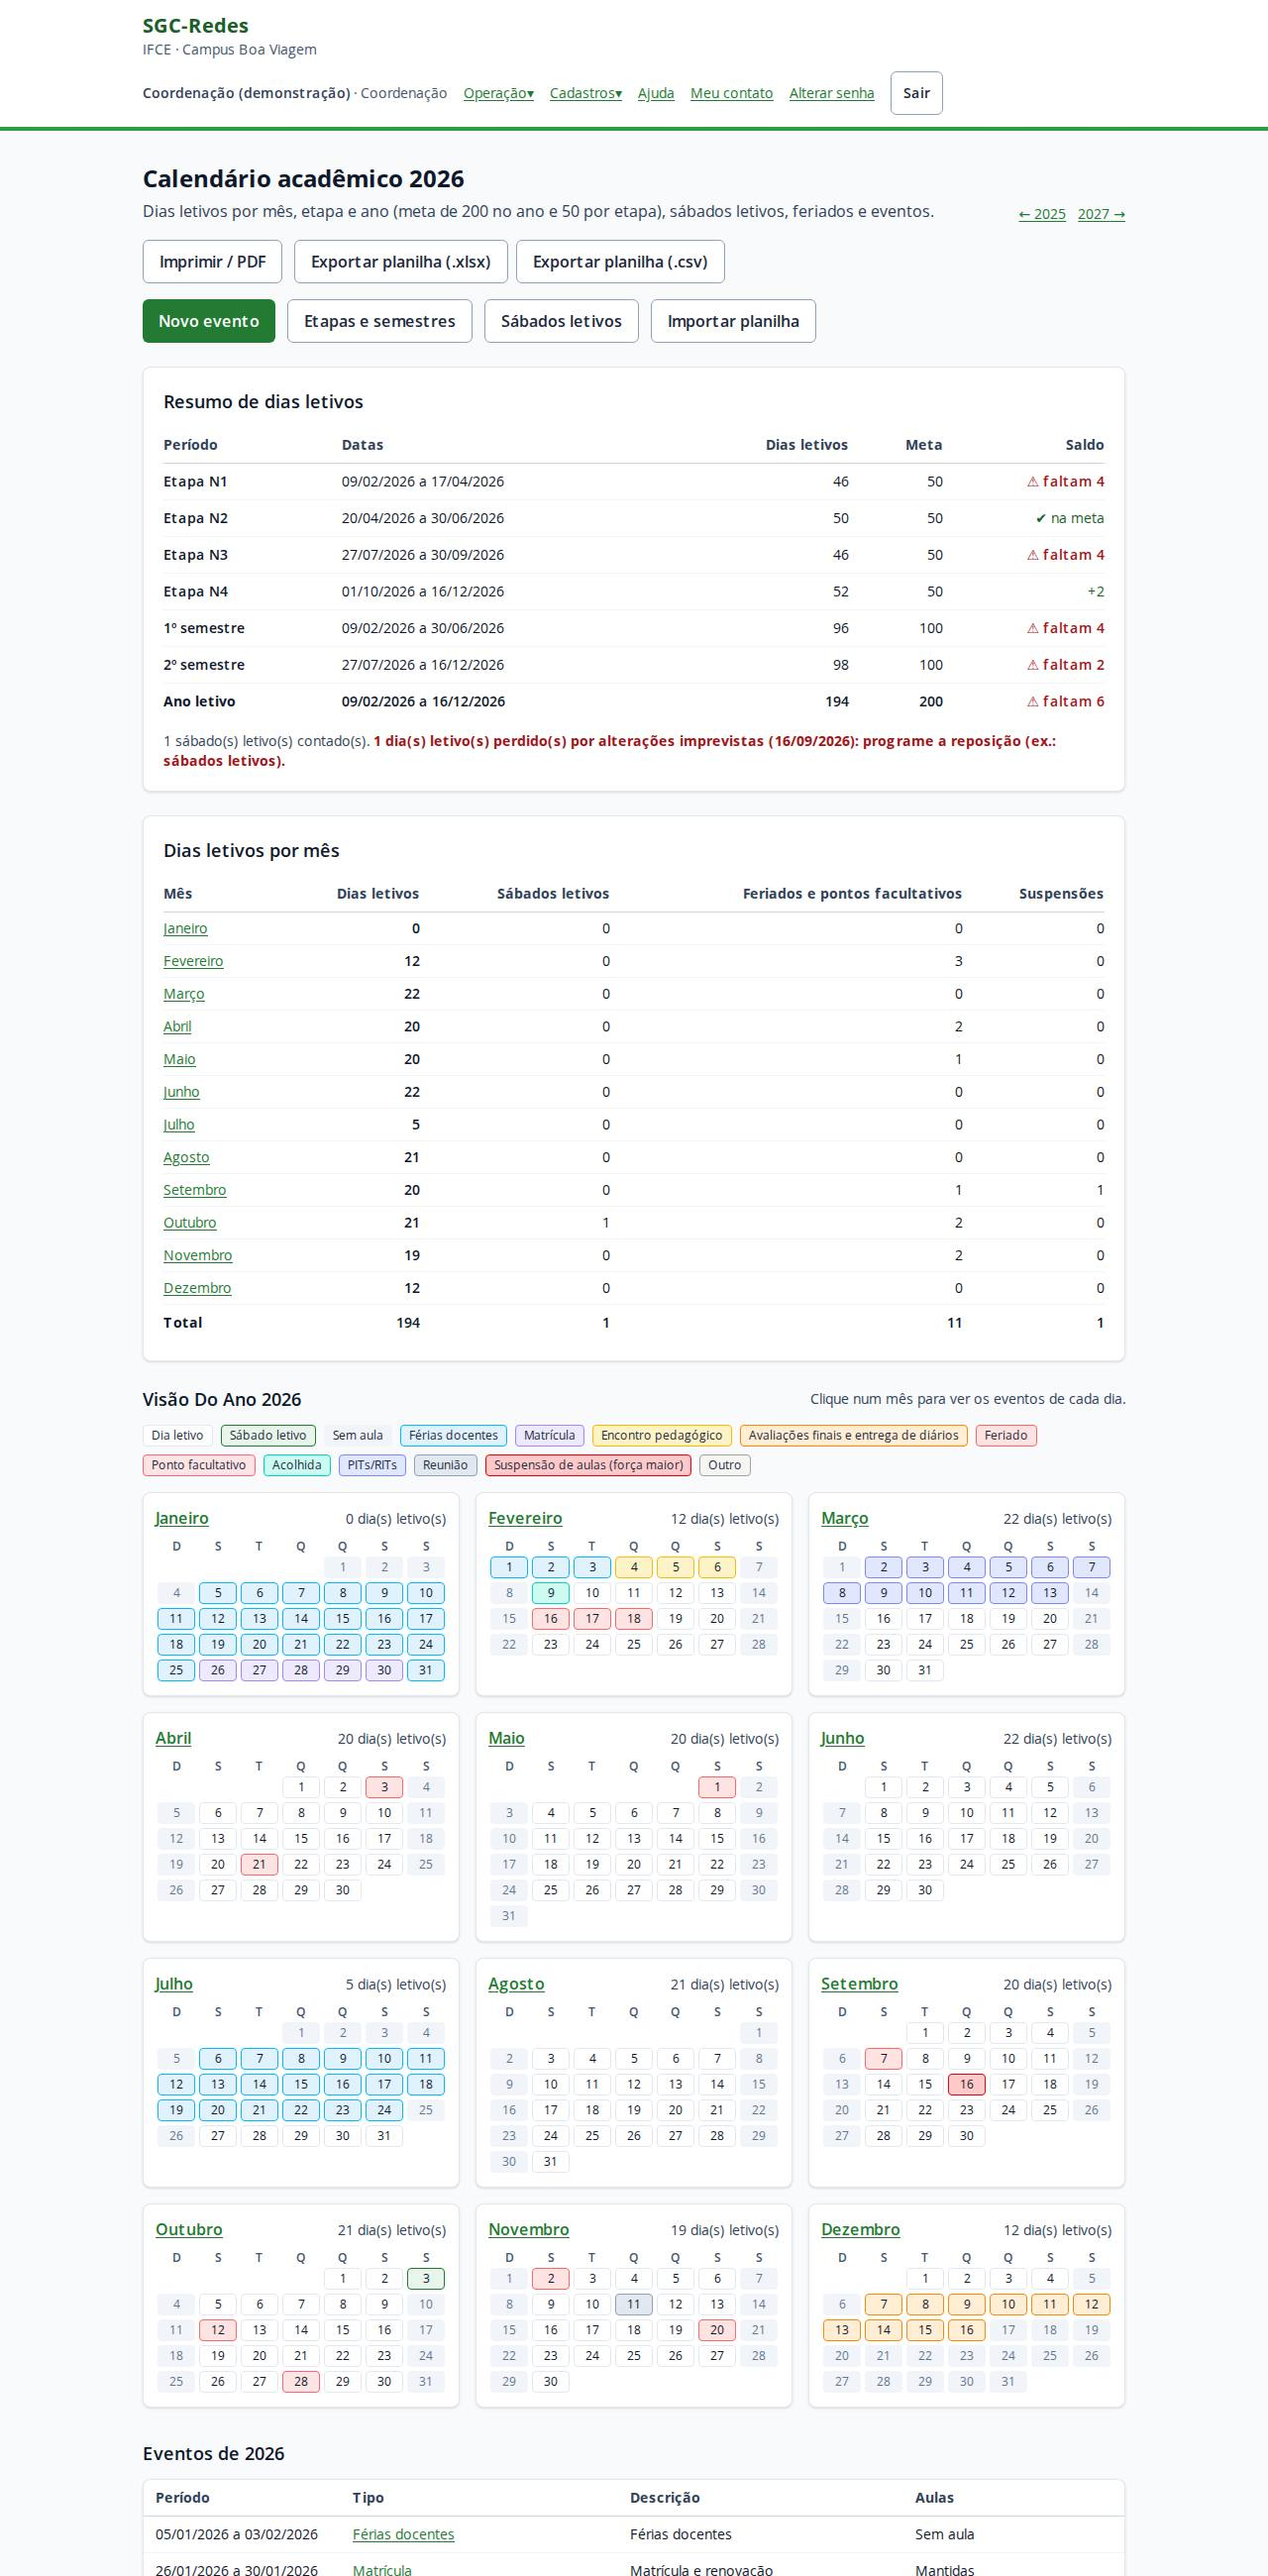
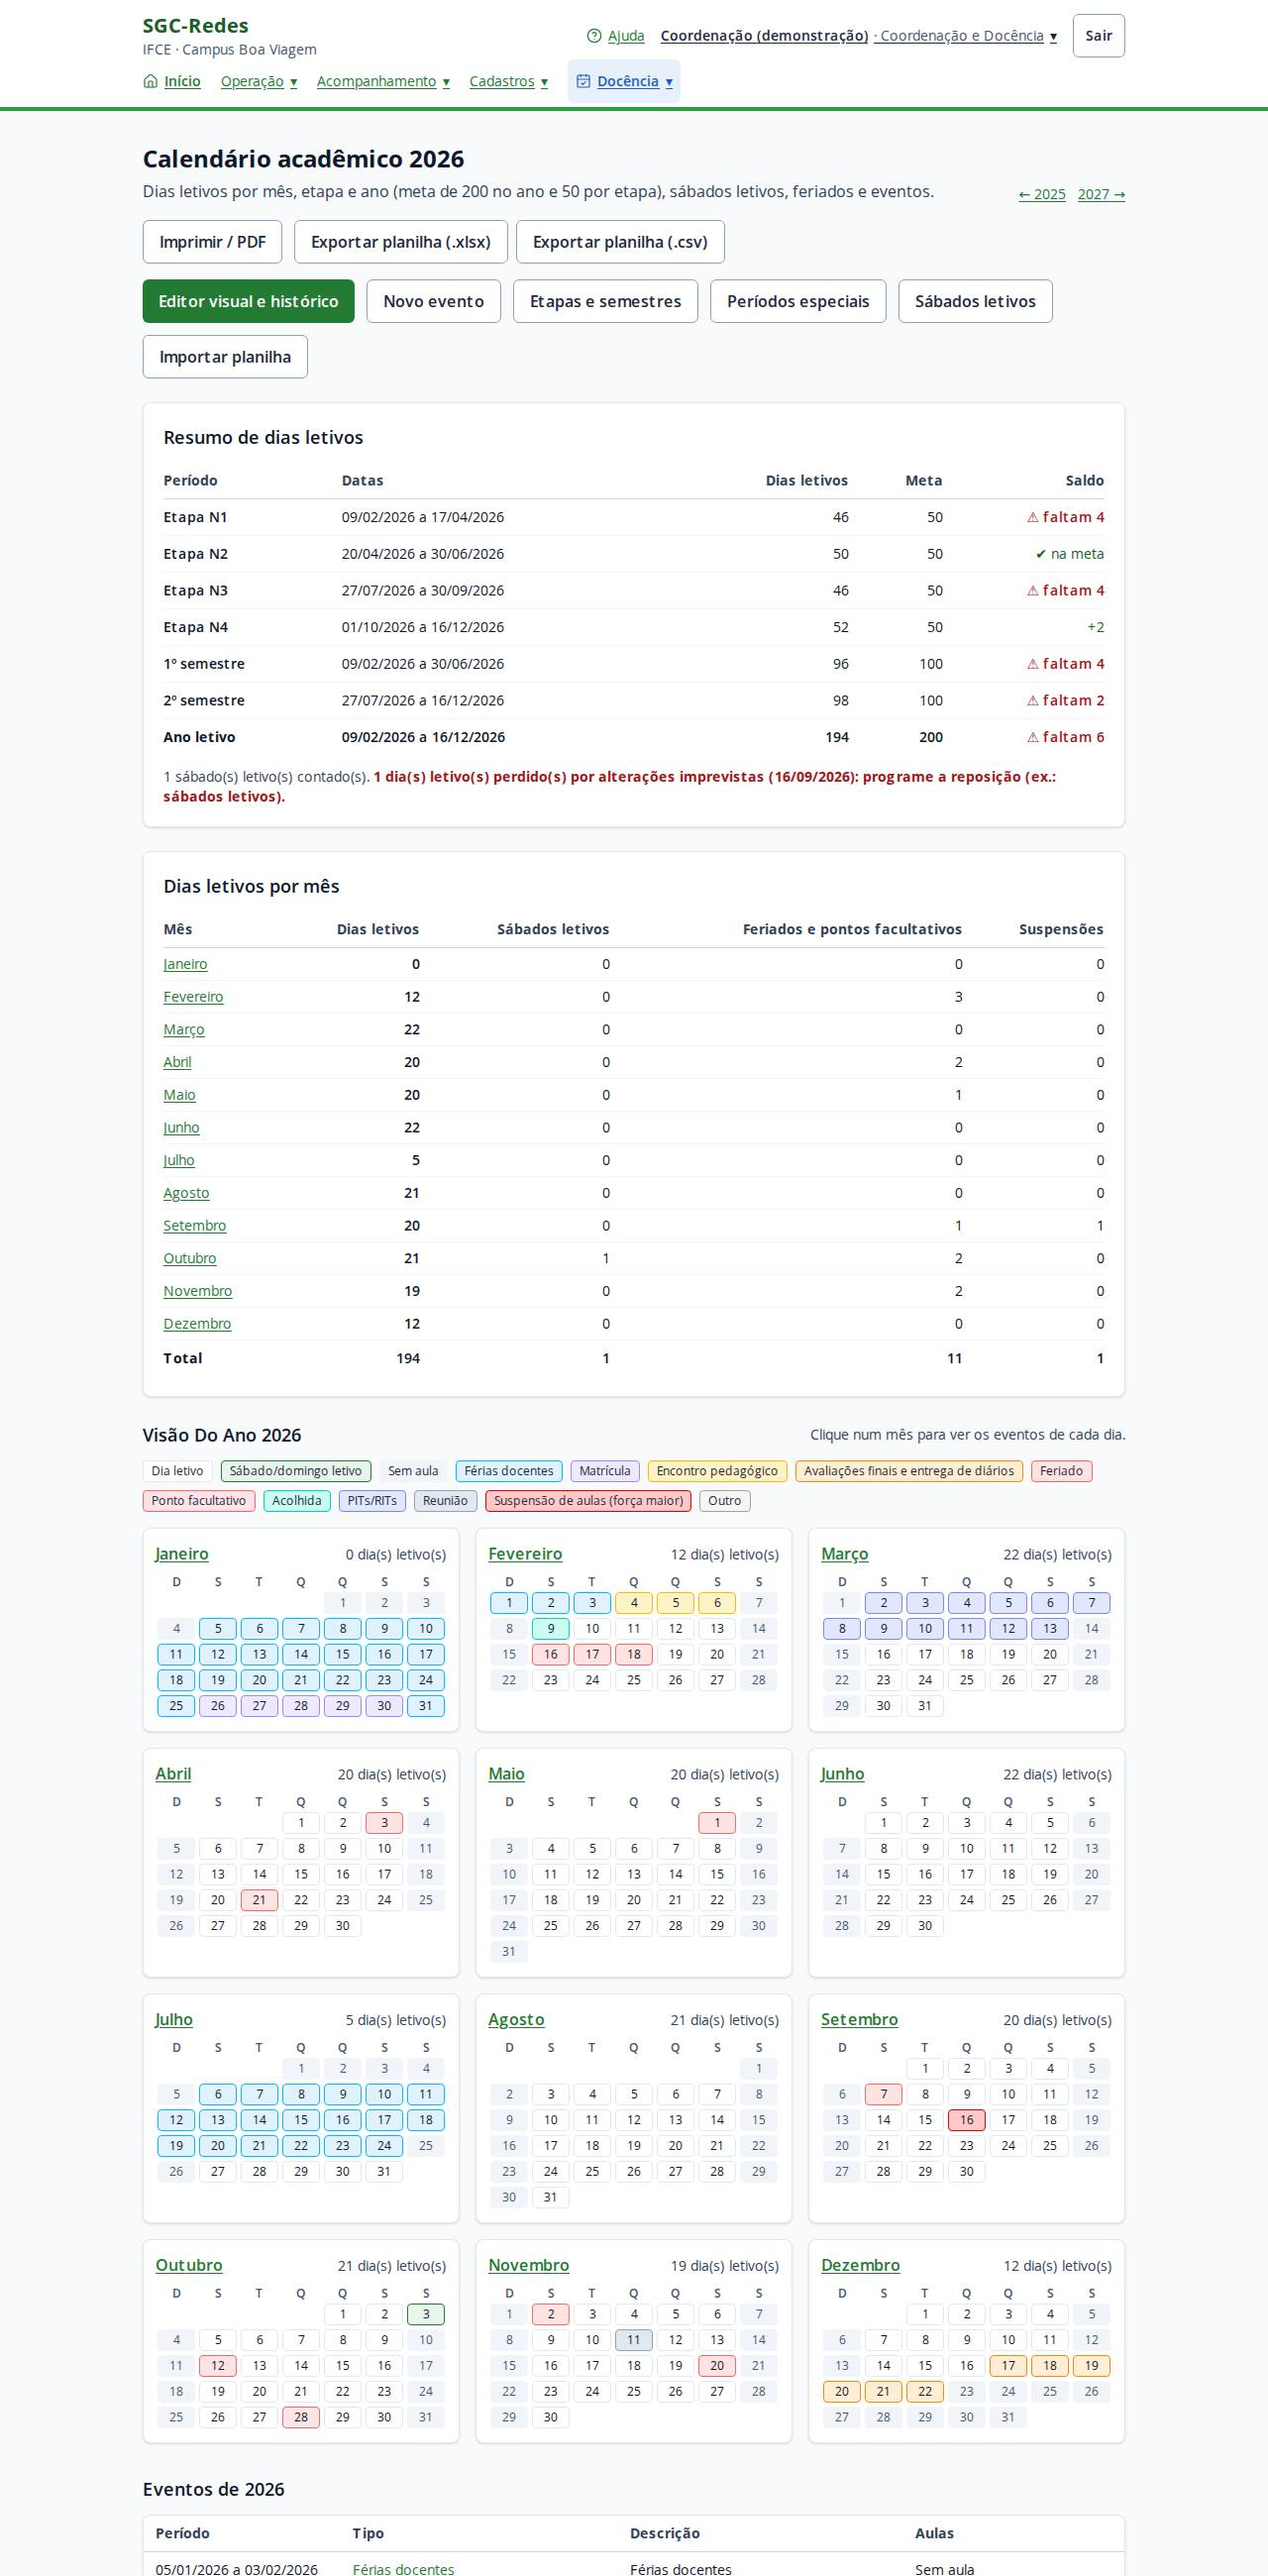
Manual: capturas das telas novas (editor do calendário, períodos especiais, reposições, mensagens periódicas, conferência dos diários)
Claude-Session: https://claude.ai/code/session_01LR1XNLtSMJrf8G8E7thHzY

diff --git a/src/lib/ajuda/topicos.ts b/src/lib/ajuda/topicos.ts
@@ -258,6 +258,18 @@ export const TOPICOS: readonly TopicoAjuda[] = [
         legenda: 'Cadastro de evento: tipo, datas, "Sem aula" e "Imprevisto".',
         captura: { rota: '/calendario/eventos/novo', perfil: 'coordenacao' },
       },
+      {
+        arquivo: 'calendario-editor.jpg',
+        alt: 'Editor do calendário com os meses do ano, os botões de categoria e os contadores de dias letivos ao lado.',
+        legenda: 'Editor visual: clique, Shift+clique e Ctrl+clique nos dias, escolha a categoria e acompanhe os contadores.',
+        captura: { rota: '/calendario/editor', perfil: 'coordenacao' },
+      },
+      {
+        arquivo: 'periodos-especiais.jpg',
+        alt: 'Lista de períodos especiais com nome, tipo e datas.',
+        legenda: 'Períodos especiais (jogos internos, encontro dos servidores): grade especial e refeições.',
+        captura: { rota: '/periodos', perfil: 'coordenacao' },
+      },
     ],
     duvidas: [
       { pergunta: 'Por que o total do ano não bate com a soma dos meses de julho?', resposta: 'Dias fora das etapas (recesso entre N2 e N3, por exemplo) não contam como letivos, mesmo sendo dias úteis.' },
@@ -442,6 +454,12 @@ export const TOPICOS: readonly TopicoAjuda[] = [
         legenda: 'Página da ausência: cobertura, convites, refeições e mensagens prontas.',
         captura: { rota: '/ausencias', perfil: 'coordenacao', clicar: 'a[href^="/ausencias/c"]', paginaInteira: true },
       },
+      {
+        arquivo: 'reposicoes-lista.jpg',
+        alt: 'Lista de reposições de aulas com prazo, situação e o formulário opcional.',
+        legenda: 'Reposições: o docente informa, a Coordenação dá ciência.',
+        captura: { rota: '/reposicoes', perfil: 'coordenacao' },
+      },
     ],
     duvidas: [
       { pergunta: 'Posso registrar uma ausência que já aconteceu?', resposta: 'Sim, até 30 dias para trás, e ausências planejadas até um ano à frente.' },
@@ -582,6 +600,12 @@ export const TOPICOS: readonly TopicoAjuda[] = [
         alt: 'Lista de textos-padrão agrupados por tipo de interação, com botões para criar e editar.',
         legenda: 'Textos-padrão editáveis, por tipo de interação.',
         captura: { rota: '/comunicacao/modelos', perfil: 'coordenacao' },
+      },
+      {
+        arquivo: 'comunicacao-periodicas.jpg',
+        alt: 'Resumo semanal dos docentes e avisos de fim de etapa e de fechamento do período.',
+        legenda: 'Mensagens periódicas: resumo semanal e avisos do período.',
+        captura: { rota: '/comunicacao/periodicas', perfil: 'coordenacao', paginaInteira: true },
       },
     ],
     duvidas: [
@@ -784,6 +808,12 @@ export const TOPICOS: readonly TopicoAjuda[] = [
         alt: 'Lista de diários com turma, disciplina, professor, aulas previstas e ministradas e a cor do semáforo.',
         legenda: 'Semáforo de diários.',
         captura: { rota: '/diarios', perfil: 'coordenacao' },
+      },
+      {
+        arquivo: 'diarios-conferencia.jpg',
+        alt: 'Conferência dos diários com aulas presumidas e ministradas por oferta.',
+        legenda: 'Conferência dos diários: o presumido pela grade e o informado pelo docente.',
+        captura: { rota: '/diarios/conferencia', perfil: 'coordenacao' },
       },
     ],
     duvidas: [

diff --git a/docs/MANUAL_DO_USUARIO.md b/docs/MANUAL_DO_USUARIO.md
@@ -205,6 +205,14 @@ flowchart LR
 
 *Cadastro de evento: tipo, datas, "Sem aula" e "Imprevisto".*
 
+![Editor do calendário com os meses do ano, os botões de categoria e os contadores de dias letivos ao lado.](../public/manual/calendario-editor.jpg)
+
+*Editor visual: clique, Shift+clique e Ctrl+clique nos dias, escolha a categoria e acompanhe os contadores.*
+
+![Lista de períodos especiais com nome, tipo e datas.](../public/manual/periodos-especiais.jpg)
+
+*Períodos especiais (jogos internos, encontro dos servidores): grade especial e refeições.*
+
 ### Dúvidas frequentes
 
 - **Por que o total do ano não bate com a soma dos meses de julho?** Dias fora das etapas (recesso entre N2 e N3, por exemplo) não contam como letivos, mesmo sendo dias úteis.
@@ -378,6 +386,10 @@ flowchart LR
 
 *Página da ausência: cobertura, convites, refeições e mensagens prontas.*
 
+![Lista de reposições de aulas com prazo, situação e o formulário opcional.](../public/manual/reposicoes-lista.jpg)
+
+*Reposições: o docente informa, a Coordenação dá ciência.*
+
 ### Dúvidas frequentes
 
 - **Posso registrar uma ausência que já aconteceu?** Sim, até 30 dias para trás, e ausências planejadas até um ano à frente.
@@ -520,6 +532,10 @@ flowchart LR
 ![Lista de textos-padrão agrupados por tipo de interação, com botões para criar e editar.](../public/manual/comunicacao-modelos.jpg)
 
 *Textos-padrão editáveis, por tipo de interação.*
+
+![Resumo semanal dos docentes e avisos de fim de etapa e de fechamento do período.](../public/manual/comunicacao-periodicas.jpg)
+
+*Mensagens periódicas: resumo semanal e avisos do período.*
 
 ### Dúvidas frequentes
 
@@ -738,6 +754,10 @@ flowchart LR
 ![Lista de diários com turma, disciplina, professor, aulas previstas e ministradas e a cor do semáforo.](../public/manual/diarios-lista.jpg)
 
 *Semáforo de diários.*
+
+![Conferência dos diários com aulas presumidas e ministradas por oferta.](../public/manual/diarios-conferencia.jpg)
+
+*Conferência dos diários: o presumido pela grade e o informado pelo docente.*
 
 ### Dúvidas frequentes
 

diff --git a/docs/PROXIMOS_PASSOS.md b/docs/PROXIMOS_PASSOS.md
@@ -129,7 +129,7 @@ alimentação e grade. Segue como ideia: avisar quando um período especial pass
    - ~~avisos próprios de fim de etapa e de fechamento do período~~: feitos em `/comunicacao/periodicas` (seção "Avisos do período": 7 dias antes do fim da etapa até a entrega; 14 dias antes do fim do semestre; um por docente, com registro de envio). O prazo da etapa continua também no resumo semanal;
    - **rodar o E2E** (escrito em `e2e/diarios.spec.ts`, `e2e/periodicas.spec.ts` e nas listas de páginas e
      acessibilidade, mas ainda não executado) e testar `situacoesAutomaticas` com banco;
-   - **manual e capturas** (`npm run manual` já regenerado; faltam as capturas das telas novas), incluindo as telas novas.
+   - **manual e capturas** (`npm run manual` já regenerado; capturas das telas novas feitas em 27/11/2026: editor do calendário, períodos especiais, reposições, mensagens periódicas e conferência dos diários).
    **Reposição confirmada (G29, 25/11/2026):** feita em `/reposicoes` (informar, anexar formulário opcional, ciência,
    registro direto, download restrito); E2E rodado em 25/11/2026 (`reposicoes.spec.ts`); falta testar o anexo (PDF, JPG, PNG) com arquivo real.
    Atenção: `bodySizeLimit` das Server Actions subiu para 7 MB e o proxy precisa de `client_max_body_size 7m`.
